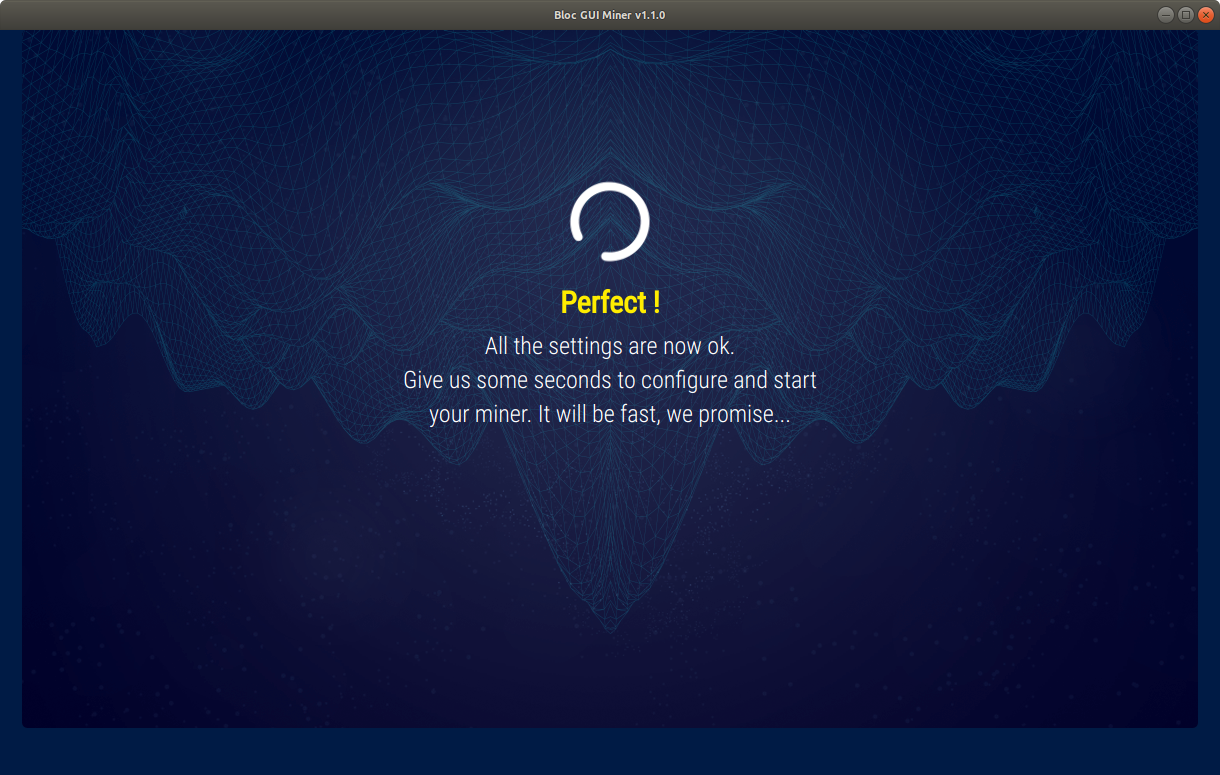
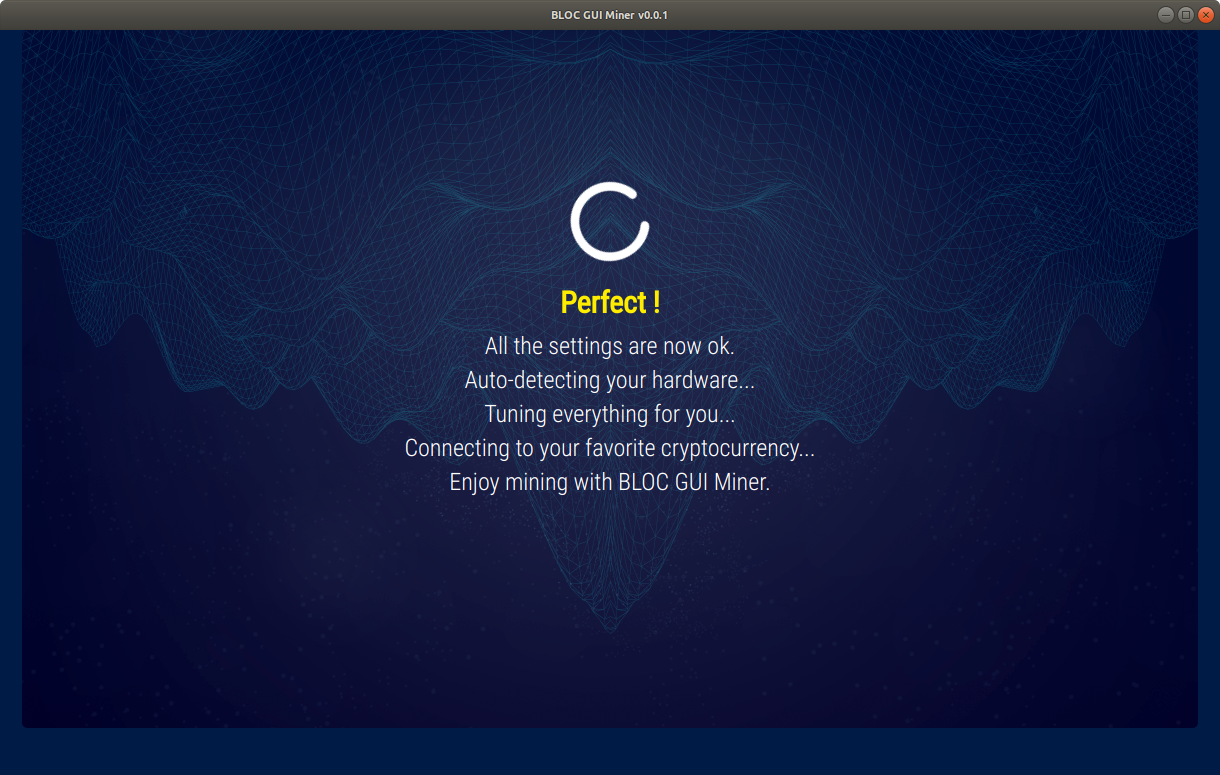
BLOC GUI Miner now support TurtleCoin

diff --git a/docs/mining/BLOC-GUI-Miner.md b/docs/mining/BLOC-GUI-Miner.md
@@ -1,24 +1,37 @@
 # **BLOC GUI Miner**
 
-BLOC GUI miner is a beautiful, easy to use, Graphical User interface for mining the cryptocurrency [BLOC](https://bloc.money).
+[BLOC GUI Miner](https://github.com/furiousteam/BLOC-GUI-Miner) is a beautiful, easy to use, Graphical User interface for mining multiple cryptocurrency based on cryptonote.
+
 It is aimed at getting people that have never tried mining before with a focus on accessibility, security and simplicity.
-BLOC GUI miner makes getting started with BLOC mining easier than ever.
+BLOC GUI miner makes getting started with [BLOC](https://bloc.money) mining easier than ever.
 
 BLOC GUI Miner support two very popular miner backends: [xmr-stak](../mining/XMR-Stak-index.md) and [xmrig](../mining/XMRIG-index.md)
 
 BLOC GUI Miner comes with XMR-STAK already built in including configuration files for CPU and GPU mining in most of the cases.
 
-This page describe how to use the BLOC GUI Miner and getting started mining the cryptocurrency BLOC on [Windows](../mining/BLOC-GUI-Miner.md#windows), [Mac OS](../mining/BLOC-GUI-Miner.md#mac) and [Linux](../mining/BLOC-GUI-Miner.md#linux) using CPU and/or GPU hardware.
+This page describe how to use the BLOC GUI Miner and getting started mining cryptocurrency on [Windows](../mining/BLOC-GUI-Miner.md#windows), [Mac OS](../mining/BLOC-GUI-Miner.md#mac) and [Linux](../mining/BLOC-GUI-Miner.md#linux) using CPU and/or GPU hardware.
 
-If you want to learn about cryptocurrencies, mining is a great place to start! You can check this guide: [what is mining ?](../mining/What-is-mining.md). [Start mining](../mining/BLOC-GUI-Miner.md#start-mining) today and get rewarded in BLOC.
+If you want to learn about cryptocurrencies, mining is a great place to start! You can check this guide: [What is mining ?](../mining/What-is-mining.md).
+
+[Start mining](../mining/BLOC-GUI-Miner.md#start-mining) today and get rewarded in your favorite cryptocurrency.
 
 ## **How to compile**
 
 If you would like to compile yourself the BLOC GUI Miner make sure to visit [the building instructions](../mining/BLOC-GUI-Miner-Compile.md) to find out all the details.
 
+## **Supported Cryptocurrency**
+
+Since the last update v0.0.2 we have added the possibility for everyone to add their own cryptocurrency to the BLOC GUI Miner as long as it is supported by XMR-STAK. Curently we support :
+
+- [BLOC.MONEY](https://bloc.money) **(BLOC)**
+- [TurtleCoin](https://turtlecoin.lol) **(TRTL)**
+- [RYO](https://ryo-currency.com) **(RYO)**
+
+If you would like to contribute to this project by adding or editing a mining pool but also to add a new cryptonote currency please checkout the [instruction available](https://github.com/furiousteam/BLOC-GUI-Miner/tree/original-miners/coins).
+
 ## **Make sure you have a wallet**
 
-If you have not yet downloaded and ran the [BLOC](https://bloc.money/download) software to sync the blockchain and create a wallet, you need to [create your wallet](../../wallets/Making-a-Wallet) before start mining. We will offer different possibility for you to create a wallet once you start the BLOC GUI Miner and follow the installation process.
+If you have not yet downloaded and ran the [BLOC](https://bloc.money/download) software to sync the blockchain and create a wallet, you need to [create your wallet](../../wallets/Making-a-Wallet) before start mining. We offer different possibility for you to create a wallet once you start the BLOC GUI Miner and follow the installation process.
 
 ## **Linux**<a name="linux">
 
@@ -89,19 +102,19 @@ If you would like to use your own binaries for the miner. Simply follow [this pr
 
 ## **Start Mining**<a name="start-mining"></a>
 
-- Windows: Double click the icon `BLOC GUI Miner.exe`
-- Linux: Double click the icon app image `BLOC GUI Miner.App`
-- MacOs: Double click the icon `BLOC GUI Miner`
+- Windows: Double click the icon **BLOC GUI Miner.exe**
+- Linux: Double click the icon app image **BLOC GUI Miner.App**
+- MacOs: Double click the icon **BLOC GUI Miner**
 
 ### **Welcome screen**
 
 ![BLOC GUI Miner Start Mining 1](images/BLOC-GUI-MINER/BLOC-GUI-MINER-1.png)
 
-This is the welcome screen. Click on the yellow link `Ok, we can start the setup now, Let's go!`
+This is the welcome screen. Click on the yellow link **Ok, we can start the setup now, Let's go!**
 
 ### **Miner Setup**
 
-![BLOC GUI Miner Start Mining 2](images/BLOC-GUI-MINER/BLOC-GUI-MINER-2.png)
+![BLOC GUI Miner Start Mining 2](images/BLOC-GUI-MINER/main-menu-2.png)
 
 1. You have a wallet.
 
@@ -112,15 +125,15 @@ This is the welcome screen. Click on the yellow link `Ok, we can start the setup
 You will be redirected to the available options for to [create your BLOC wallet](../../wallets/Making-a-Wallet).
 
 - [Paper Wallet](../wallets/paper-wallet.md)
-- Desktop Wallets. [CLI Wallet](../wallets/BLOCWallet-how-to-use.md) or [GUI Wallet](../#)
-- [iPhone Wallet](https://itunes.apple.com/us/app/bloc-wallet-by-furiousteam-ltd/id1437924269?mt=8&ign-mpt=uo%3D2)
+- Desktop Wallets. [CLI Wallet](../wallets/BLOCWallet-how-to-use.md) or [GUI Wallet](../wallets/Making-a-GUI-Wallet.md)
+- [iPhone Wallet](BLOC-iOS-wallet.md)
 - [Telegram Wallet](../wallets/BLOC-Telegram-Wallet.md)
 
 Once you have created your wallet come back to the BLOC GUI Miner and select the option 1. You have a wallet.
 
 ### **Address Setup**
 
-Enter your BLOC wallet address and click `OK, NEXT STEP`.
+Enter your BLOC wallet address and click **OK, NEXT STEP**.
 
 ![BLOC GUI Miner Start Mining 4](images/BLOC-GUI-MINER/BLOC-GUI-MINER-4.png)
 
@@ -128,13 +141,15 @@ Enter your BLOC wallet address and click `OK, NEXT STEP`.
 
 You can find a complete list of the BLOC mining pools available on the [BLOC MINING](https://bloc.money/mining) section of our website. We suggest you to select the nearest mining pool following your location for the best mining experience and results.
 
-Select your favorite mining pool from the list and click `OK, NEXT STEP`.
+Select your favorite mining pool from the list and click **OK, NEXT STEP**.
 
 ![BLOC GUI Miner Start Mining 5](images/BLOC-GUI-MINER/BLOC-GUI-MINER-5.png)
 
 ### **Antivirus**
 
-Some antivirus packages detect cryptocurrency miners as malware and will remove the miner as soon as it's started. In order for the BLOC GUI miner to function, you'll need to exclude the miner from being scanned by your antivirus software. Once you are ready click `OK,I'VE ALLOWED THE MINER`
+Some antivirus packages detect cryptocurrency miners as malware and will remove the miner as soon as it's started. In order for the BLOC GUI miner to function, you'll need to exclude the miner from being scanned by your antivirus software.
+
+Once you are ready click `OK,I'VE ALLOWED THE MINER`
 
 ![BLOC GUI Miner Start Mining 6](images/BLOC-GUI-MINER/BLOC-GUI-MINER-6.png)
 
@@ -154,26 +169,40 @@ Congratulations ! You are mining the BLOC cryptocurrency. This is the overview o
 
 ### **Settings** <a name="settings"></a>
 
-The settings page allow you to customize the miner settings, modify your BLOC mining address, or select a different mining pool. Once you have made the change click the button `CLICK HERE TO SAVE THE SETTINGS`.
-Note: The 0% for CPU mining works only with XMRIG.
+The settings page allow you to customize the miner settings:
 
-![BLOC GUI Miner Start Mining 9](images/BLOC-GUI-MINER/BLOC-GUI-MINER-9.png)
+- Modify your wallet mining address
+- Choose a different mining pool
+
+**Note**: *The % for CPU mining works only with XMRIG.*
+
+![BLOC GUI Miner Settings](images/BLOC-GUI-MINER/settings.png)
+
+- Select another coin to mine from the selector
+    * Enter your wallet address
+    * Choose your mining pool
+
+![BLOC GUI Miner Settings](images/BLOC-GUI-MINER/settings2.png)
+
+Once you have made the change click the button **CLICK HERE TO SAVE THE SETTINGS**.
 
 ### **Help**
 
-Need help ? Visit this section to find out more about BLOC, join the community, checkout the latest guides, watch videos and much more.
+Do you need more help ? Make sure you visit this section to find out more about BLOC, join the community, checkout the latest guides, watch videos and much more.
 
 ![BLOC GUI Miner Start Mining 10](images/BLOC-GUI-MINER/BLOC-GUI-MINER-10.png)
 
 ## **How to check your payouts**
 
-You get paid out based upon what the pool sets the min payout amount. A pool’s min payout amount can vary from pool to pool. Visit the mining pool you are mining from to checkout your actual payouts.
+You get paid out based upon what the pool sets the min payout amount. A pool’s min payout amount can vary from pool to pool.
+
+Visit the mining pool you are mining from to checkout your actual payouts.
 
 ### Example if you are mining from [BLOC-MINING Pool Europe](https://bloc-mining.eu)
 
 * Go to the [BLOC-MINING Pool Europe](https://bloc-mining.eu).
 
-* Scroll down to `Your Stats & Payment History`
+* Scroll down to **Your Stats & Payment History**
 
 ![BLOC WEB MINER](images/webminer/CHECK.png)
 
@@ -183,12 +212,92 @@ You get paid out based upon what the pool sets the min payout amount. A pool’s
 
 ![BLOC WEB MINER](images/webminer/CHECK2.png)
 
+## **Mining TurtleCoin TRTL**
+
+It is now very easy and fun to mine TurtleCoin using the BLOC GUI Miner.
+
+### **Launch the BLOC GUI Miner**
+
+Launch the BLOC GUI Miner and select **I want to mine other cryptocurrency**
+
+![I want to mine other cryptocurrency](images/BLOC-GUI-MINER/main-menu-2.png)
+
+### **Select TurtleCoin**
+
+Select TurtleCoin
+
+![Select turtlecoin](images/BLOC-GUI-MINER/other-cryptocurrency.png)
+
+### **TRTL Address**
+
+Enter your TRTL wallet address. It must start with **TRTL** and click **OK, NEXT STEP**.
+
+![Enter TRTL wallet address](images/BLOC-GUI-MINER/trtl-address.png)
+
+### **Choose Mining Pool**
+
+We suggest you to select the nearest mining pool following your location for the best mining experience and results.
+
+Select your favorite mining pool from the list and click **OK, NEXT STEP**.
+
+![Choose TurtleCoin mining pool](images/BLOC-GUI-MINER/select-pool-turtle.png)
+
+### **Antivirus**
+
+Some antivirus packages detect cryptocurrency miners as malware and will remove the miner as soon as it's started.
+
+In order for the BLOC GUI miner to function, you'll need to exclude the miner from being scanned by your antivirus software.
+
+Once you are ready click `OK,I'VE ALLOWED THE MINER`
+
+![Miner antivirus informations](images/BLOC-GUI-MINER/BLOC-GUI-MINER-6.png)
+
+### **Configuring**
+
+BLOC GUI Miner will auto configure your mining hardware with the best capabilities in the most cases. The configuration process is almost instant or take few seconds.
+
+![Configuring the miner](images/BLOC-GUI-MINER/BLOC-GUI-MINER-7.png)
+
+### **Mining**
+
+Congratulations ! You are mining **(TRTL)** TurtleCoin cryptocurrency. This is the overview of the BLOC GUI Miner. You can see the complete informations of your mining activity and some more details about the BLOC ecosystem.
+
+- You can change the mining pool by clicking here. It will open the [TurtleCoin miner settings page](../mining/BLOC-GUI-Miner.md#trtl-settings)
+
+![Mining TurtleCoin](images/BLOC-GUI-MINER/mining-turtlecoin.png)
+
+### **Settings** <a name="trtl-settings"></a>
+
+The settings page allow you to customize the miner settings:
+
+- Modify your wallet mining address
+- Choose a different mining pool
+
+**Note**: *The % for CPU mining works only with XMRIG.*
+
+![TurtleCoin Miner settings](images/BLOC-GUI-MINER/trtl-settings.png)
+
+- Select another coin to mine from the selector
+    * Enter your wallet address
+    * Choose your mining pool
+
+![TurtleCoin Settings another coin](images/BLOC-GUI-MINER/trtl-another-coin.png)
+
+Once you have made the change click the button **CLICK HERE TO SAVE THE SETTINGS**.
+
+### **Help**
+
+Do you need more help ? Make sure you visit this section to find out more about TurtleCoin, join the community, checkout the latest updates, watch videos and much more.
+
+![TurtleCoin Help](images/BLOC-GUI-MINER/TurtleCoin-Help.png)
+
+
 ## **XMR-STAK Settings and configuration**
 
-XMR-Stak will save your configuration in `config.txt` in the same directory from which it was first run.
+XMR-Stak will save your configuration in **config.txt** in the same directory from which it was first run.
 
-Your configuration for pools(algorithm to mine, address, port etc) will be saved in `pools.txt`
-The configuration of the device it mines(CPU/AMD/NVIDIA) will be saved in `cpu.txt`, `amd.txt` or `nvidia.txt`, respectively.
+Your configuration for pools(algorithm to mine, address, port etc) will be saved in **pools.txt**
+The configuration of the device it mines(CPU/AMD/NVIDIA) will be saved in **cpu.txt**, **amd.txt** or **nvidia.txt**, respectively.
 
 Run XMR-Stak again from the same directory to reuse the configuration.
 
@@ -205,13 +314,13 @@ Use the standard procedure to compile your favorite miner and place the binaries
 
 For the mining stats to display correctly you need to enable the API for each miner by doing the following:
 
-Compiling XMR-STAK with option: `-DMICROHTTPD_ENABLE=ON`
+Compiling XMR-STAK with option: **-DMICROHTTPD_ENABLE=ON**
 
 Ensure you have the following in you config.txt file
 
 `"httpd_port" : 16000,`
 
-Compiling XMRIG with option: by default `-DWITH_HTTPD=ON` should be enabled.
+Compiling XMRIG with option: by default **-DWITH_HTTPD=ON** should be enabled.
 
 Ensure you have the following in you config.json file
 ```
